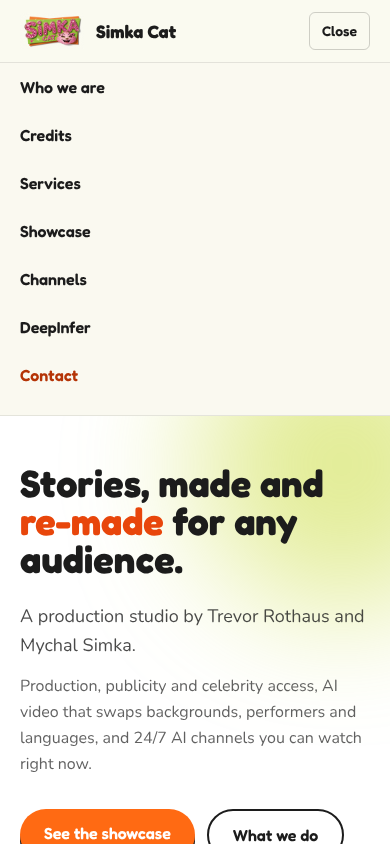
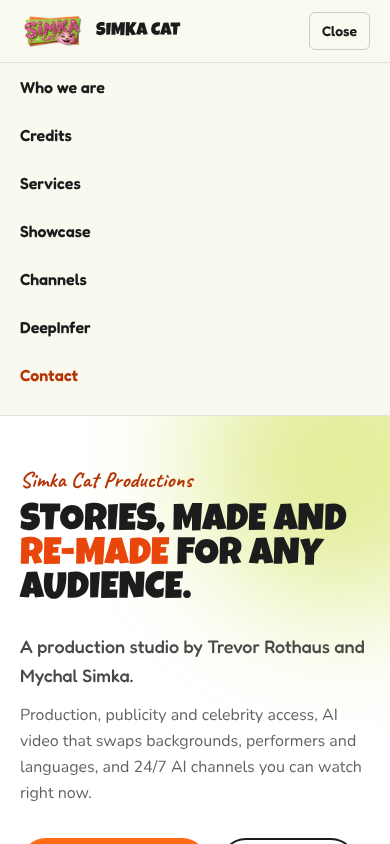
Remove TODO placeholders, refocus Trevor's bio on scale, restore original fonts
Trevor has no film credits, so Credits lists Mychal only and keeps just
the roles verified on TMDB/IMDb. Trevor's bio now centres on scaling
systems at SendGrid (Series C through the Twilio acquisition) and on
running the AI pipeline and channels unattended. Headings use Luckiest
Guy with Caveat accents as on the previous site; Fredoka/Nunito stay
for intros and body. Drops the Todo component and placeholder boxes.

Claude-Session: https://claude.ai/code/session_01CP1hmVNj2LSB4J9c4UqVBf

Changed region(s): [[0.0308, 0.5545, 0.9231, 1.0], [0.6769, 0.7085, 0.9538, 0.8009], [0.2462, 0.0, 0.4615, 0.0616]]

diff --git a/src/data/content.js b/src/data/content.js
@@ -1,6 +1,5 @@
-// Single source of truth for site copy. Anything marked TODO(Trevor) is a
-// placeholder for Trevor to confirm or fill in before the live deploy. Nothing
-// here is invented: every credit carries the public source it was read from.
+// Single source of truth for site copy. Nothing here is invented: every credit
+// carries the public source it was read from.
 
 export const siteMeta = {
   name: 'Simka Cat',
@@ -9,7 +8,6 @@ export const siteMeta = {
   tagline: 'A production studio by Trevor Rothaus and Mychal Simka.',
   description:
     'Simka Cat Productions is the studio of Trevor Rothaus and Mychal Simka: production, publicity and celebrity access, AI video (background and person replacement, translation and lip sync), and always-on AI channels.',
-  // TODO(Trevor): confirm the contact address before launch.
   email: 'hello@simka.cat',
 }
 
@@ -26,11 +24,10 @@ export const founders = [
   {
     name: 'Mychal Simka',
     role: 'Co-founder · Producer, writer, casting director',
-    photo: null, // TODO(Trevor): add a headshot (src/assets/mychal.webp) and import it here.
+    photo: null, // add a headshot (src/assets/mychal.webp) and import it here
     bio: [
       'Mychal has spent more than a decade making animated features: writing, casting, producing and directing English-language versions for international release. The studio carries his name.',
-      // The claim below is copied from the previous simka.cat site; keep it only if Trevor confirms it.
-      'TODO(Trevor): confirm — "twelve animated features for Lionsgate; voice casts including Ariana Grande, Hilary Duff and Smash Mouth" (copied from the previous site).',
+      'He brings the talent relationships, the casting eye and the publicity instincts that get a project noticed.',
     ],
     links: [
       { label: 'IMDb', url: 'https://www.imdb.com/name/nm2949944/' },
@@ -39,11 +36,11 @@ export const founders = [
   },
   {
     name: 'Trevor Rothaus',
-    role: 'Co-founder · Engineer, producer',
-    photo: null, // TODO(Trevor): add a headshot (src/assets/trevor.webp) and import it here.
+    role: 'Co-founder · Engineering and scale',
+    photo: null, // add a headshot (src/assets/trevor.webp) and import it here
     bio: [
-      'Trevor is a software engineer turned producer. He founded and runs Claritas Studios, a nonprofit animation studio, and built its pipeline end to end: story, animation, voice, edit, delivery.',
-      'Before that he was a developer at SendGrid, from Series C through its acquisition by Twilio. He builds the AI tooling and the 24/7 channels behind Simka Cat.',
+      'Trevor builds systems that scale. At SendGrid he was a core developer through the years that took the company from a Series C startup to a multi-billion-dollar public company and its acquisition by Twilio, working on infrastructure that delivered email for tens of thousands of customers.',
+      'He applies the same engineering to media: the AI video pipeline, the inference stack and the three 24/7 channels behind Simka Cat all run unattended, so the studio can take on work at a volume and price a traditional shop cannot.',
     ],
     links: [
       { label: 'Claritas Studios', url: 'https://claritasstudios.com/' },
@@ -52,8 +49,7 @@ export const founders = [
   },
 ]
 
-// Credits. `source` says where the credit was read. Roles starting with TODO
-// were not verified on the source page and need Trevor to confirm or delete.
+// Credits. `source` says where each credit was read.
 export const credits = {
   mychal: [
     { title: 'Elephant Kingdom', year: 2016, role: 'Writer', source: 'TMDB' },
@@ -65,15 +61,6 @@ export const credits = {
     { title: 'Wings', year: 2012, role: 'Voice (Radio Announcer)', source: 'TMDB' },
     { title: 'The Portal', year: 2010, role: 'Editor', source: 'TMDB' },
     { title: 'The Adventures of Bunny Bravo', year: 2022, role: 'Producer', source: 'IMDb' },
-    { title: "The Little Penguin Pororo's Racing Adventure", year: 2013, role: 'TODO(Trevor): role', source: 'IMDb cast & crew listing' },
-    { title: 'Legend of Kung Fu Rabbit', year: 2011, role: 'TODO(Trevor): role', source: 'IMDb cast & crew listing' },
-    { title: 'X-Men Origins: Wolverine', year: 2009, role: 'TODO(Trevor): role', source: 'IMDb "known for"' },
-    { title: 'The Final Destination', year: 2009, role: 'TODO(Trevor): role', source: 'IMDb "known for"' },
-  ],
-  trevor: [
-    { title: 'Claritas Studios animated shorts (prayers, saints, Daisy & Sheep)', year: '2021–', role: 'Founder & CEO, producer', source: 'claritasstudios.com' },
-    { title: 'Saint Joseph animation (Kickstarter)', year: 2025, role: 'Producer', source: 'blog.claritasstudios.com' },
-    { title: 'TODO(Trevor): add further titles', year: '', role: '', source: '' },
   ],
 }
 
@@ -139,7 +126,7 @@ export const showcase = [
     title: 'Demo: Chinese → English lip sync',
     caption: 'A Mandarin scene re-voiced in English with matched lip movement. Sample slot: the real clip is in production.',
     kind: 'video',
-    media: null, // TODO(Trevor): set to '/showcase/zh-en.mp4' once the demo clip is in public/showcase/.
+    media: null, // set to '/showcase/zh-en.mp4' once the demo clip is in public/showcase/
     hue: 'from-red-600 to-orange-900',
     featured: true,
   },
@@ -168,7 +155,7 @@ export const channels = {
 
 export const deepinfer = {
   name: 'DeepInfer',
-  // TODO(Trevor): replace with the 5-line pitch from knowledge-base-lab
+  // Replace with the 5-line pitch from knowledge-base-lab
   // reports/deepinfer-business-model.org once that report is merged.
   pitch: [
     'DeepInfer is the inference business behind Simka Cat: the model hosting and pipelines that run our AI video work and our 24/7 channels.',

diff --git a/src/components/Credits.jsx b/src/components/Credits.jsx
@@ -1,41 +1,5 @@
-import PropTypes from 'prop-types'
 import Section from './Section'
-import Todo from './Todo'
 import { credits } from '../data/content'
-
-function CreditList({ heading, items }) {
-  return (
-    <div>
-      <h3 className="font-fredoka text-2xl font-bold">{heading}</h3>
-      <ul className="mt-4 divide-y divide-ink/10 border-y border-ink/10">
-        {items.map((c, i) => {
-          const todo = c.role.startsWith('TODO') || c.title.startsWith('TODO')
-          return (
-            <li key={`${c.title}-${i}`} className="grid gap-1 py-3 sm:grid-cols-[1fr_auto] sm:items-baseline sm:gap-4">
-              <div>
-                {c.title.startsWith('TODO') ? (
-                  <Todo>{c.title.replace(/^TODO\([^)]*\):\s*/, '')}</Todo>
-                ) : (
-                  <span className="font-semibold">{c.title}</span>
-                )}
-                {c.year !== '' && <span className="ml-2 text-ink/60">{c.year}</span>}
-                <div className="text-sm text-ink/80">
-                  {todo && c.role.startsWith('TODO') ? (
-                    <Todo>{c.role.replace(/^TODO\([^)]*\):\s*/, '')}</Todo>
-                  ) : (
-                    c.role
-                  )}
-                </div>
-              </div>
-              {c.source && <div className="text-xs uppercase tracking-wider text-ink/50">via {c.source}</div>}
-            </li>
-          )
-        })}
-      </ul>
-    </div>
-  )
-}
-CreditList.propTypes = { heading: PropTypes.string.isRequired, items: PropTypes.array.isRequired }
 
 export default function Credits() {
   return (
@@ -44,20 +8,23 @@ export default function Credits() {
       tone="white"
       eyebrow="Credits"
       title="Selected credits"
-      intro="Every title below was read from a public listing (TMDB, IMDb, Claritas Studios); the source is shown beside each credit. Entries marked TODO are listed on those pages but their role still needs confirming."
+      intro="Mychal Simka's film credits, each read from a public listing (TMDB or IMDb); the source is shown beside every title."
     >
-      <div className="grid gap-12 md:grid-cols-2">
-        <CreditList heading="Mychal Simka" items={credits.mychal} />
-        <div className="flex flex-col gap-12">
-          <CreditList heading="Trevor Rothaus" items={credits.trevor} />
-          <div>
-            <h3 className="font-fredoka text-2xl font-bold">Simka Cat</h3>
-            <div className="mt-4">
-              <Todo>joint studio credits (client work, channels) once any are public</Todo>
+      <ul className="divide-y divide-ink/10 border-y border-ink/10 md:columns-2 md:gap-12">
+        {credits.mychal.map((c) => (
+          <li
+            key={c.title}
+            className="grid break-inside-avoid gap-1 py-3 sm:grid-cols-[1fr_auto] sm:items-baseline sm:gap-4"
+          >
+            <div>
+              <span className="font-semibold">{c.title}</span>
+              <span className="ml-2 text-ink/60">{c.year}</span>
+              <div className="text-sm text-ink/80">{c.role}</div>
             </div>
-          </div>
-        </div>
-      </div>
+            <div className="text-xs uppercase tracking-wider text-ink/50">via {c.source}</div>
+          </li>
+        ))}
+      </ul>
     </Section>
   )
 }

diff --git a/src/components/WhoWeAre.jsx b/src/components/WhoWeAre.jsx
@@ -1,8 +1,5 @@
 import Section from './Section'
-import Todo from './Todo'
 import { founders } from '../data/content'
-
-const isTodo = (s) => s.startsWith('TODO')
 
 export default function WhoWeAre() {
   return (
@@ -14,29 +11,19 @@ export default function WhoWeAre() {
       <div className="grid gap-10 md:grid-cols-2 md:gap-12">
         {founders.map((f) => (
           <article key={f.name} className="flex flex-col gap-5">
-            <div className="aspect-[4/5] w-full max-w-[320px] overflow-hidden rounded-2xl border-2 border-ink bg-[repeating-linear-gradient(45deg,#fff_0_16px,#f3f1e4_16px_32px)] shadow-[8px_8px_0_#1c1c1c]">
-              {f.photo ? (
+            {f.photo && (
+              <div className="aspect-[4/5] w-full max-w-[320px] overflow-hidden rounded-2xl border-2 border-ink shadow-[8px_8px_0_#1c1c1c]">
                 <img src={f.photo} alt={f.name} className="h-full w-full object-cover" loading="lazy" />
-              ) : (
-                <div className="flex h-full items-center justify-center p-6 text-center">
-                  <Todo>photo of {f.name}</Todo>
-                </div>
-              )}
-            </div>
+              </div>
+            )}
             <div>
               <h3 className="font-fredoka text-3xl font-bold">{f.name}</h3>
-              <div className="mt-1 text-sm font-semibold uppercase tracking-wider text-[#b53406]">{f.role}</div>
-              {f.bio.map((p) =>
-                isTodo(p) ? (
-                  <div key={p} className="mt-4">
-                    <Todo>{p.replace(/^TODO\([^)]*\):\s*/, '')}</Todo>
-                  </div>
-                ) : (
-                  <p key={p} className="mt-4 leading-relaxed text-ink/80">
-                    {p}
-                  </p>
-                ),
-              )}
+              <div className="mt-1 font-caveat text-[22px] text-[#b53406]">{f.role}</div>
+              {f.bio.map((p) => (
+                <p key={p} className="mt-4 leading-relaxed text-ink/80">
+                  {p}
+                </p>
+              ))}
               <ul className="mt-4 flex flex-wrap gap-3">
                 {f.links.map((l) => (
                   <li key={l.url}>

diff --git a/src/components/Hero.jsx b/src/components/Hero.jsx
@@ -8,10 +8,11 @@ export default function Hero() {
       <div className="pointer-events-none absolute -bottom-32 -left-20 h-72 w-72 rounded-full bg-pink/40 blur-3xl" />
       <div className="relative mx-auto grid max-w-6xl items-center gap-10 md:grid-cols-[1.1fr_0.9fr]">
         <div>
-          <h1 className="font-fredoka text-[clamp(38px,6vw,72px)] font-bold leading-[1] text-ink">
+          <div className="font-caveat text-[clamp(22px,2.6vw,32px)] font-bold text-[#b53406]">Simka Cat Productions</div>
+          <h1 className="mt-2 font-luckiest text-[clamp(38px,6vw,78px)] uppercase leading-[0.9] text-ink">
             Stories, made and <span className="text-[#e8460b]">re-made</span> for any audience.
           </h1>
-          <p className="mt-6 max-w-xl text-lg leading-relaxed text-ink/80 md:text-xl">{siteMeta.tagline}</p>
+          <p className="mt-6 max-w-xl font-fredoka text-lg font-medium leading-relaxed text-ink/80 md:text-xl">{siteMeta.tagline}</p>
           <p className="mt-3 max-w-xl text-base leading-relaxed text-ink/70">
             Production, publicity and celebrity access, AI video that swaps backgrounds, performers and languages,
             and 24/7 AI channels you can watch right now.
@@ -19,7 +20,7 @@ export default function Hero() {
           <div className="mt-8 flex flex-wrap gap-3">
             <a
               href="#showcase"
-              className="rounded-full bg-orange px-6 py-3 font-fredoka font-semibold text-white no-underline shadow-[0_6px_0_#1c1c1c] hover:translate-y-0.5 hover:shadow-[0_4px_0_#1c1c1c]"
+              className="rounded-full bg-orange px-6 py-3 font-luckiest uppercase tracking-wide text-white no-underline shadow-[0_6px_0_#1c1c1c] hover:translate-y-0.5 hover:shadow-[0_4px_0_#1c1c1c]"
             >
               See the showcase
             </a>

diff --git a/src/components/Footer.jsx b/src/components/Footer.jsx
@@ -5,7 +5,7 @@ export default function Footer() {
     <footer className="bg-ink px-5 py-12 text-cream sm:px-8">
       <div className="mx-auto flex max-w-6xl flex-col gap-8 md:flex-row md:items-start md:justify-between">
         <div>
-          <div className="font-fredoka text-2xl font-bold">Simka Cat Productions</div>
+          <div className="font-luckiest text-2xl uppercase">Simka Cat Productions</div>
           <p className="mt-2 max-w-sm text-cream/70">{siteMeta.tagline}</p>
           <a href={`mailto:${siteMeta.email}`} className="mt-3 inline-block font-semibold text-slime no-underline">
             {siteMeta.email}
@@ -21,7 +21,7 @@ export default function Footer() {
           ))}
         </ul>
       </div>
-      <div className="mx-auto mt-10 max-w-6xl border-t border-cream/15 pt-6 text-sm text-cream/50">
+      <div className="mx-auto mt-10 max-w-6xl border-t border-cream/15 pt-6 font-gochi text-base text-cream/60">
         © {new Date().getFullYear()} {siteMeta.legalName}. AI-generated media on this site and our channels is labelled as such.
       </div>
     </footer>

diff --git a/src/components/Section.jsx b/src/components/Section.jsx
@@ -15,10 +15,10 @@ export default function Section({ id, eyebrow, title, intro, tone = 'light', chi
       <div className="mx-auto max-w-6xl">
         <header className="max-w-3xl">
           {eyebrow && (
-            <div className={`font-fredoka text-sm font-semibold uppercase tracking-[0.2em] ${eyebrowTone}`}>{eyebrow}</div>
+            <div className={`font-caveat text-[clamp(22px,2.4vw,30px)] font-bold ${eyebrowTone}`}>{eyebrow}</div>
           )}
-          <h2 className="mt-2 font-fredoka text-[clamp(30px,4.5vw,52px)] font-bold leading-[1.05]">{title}</h2>
-          {intro && <p className={`mt-4 text-lg leading-relaxed ${introTone}`}>{intro}</p>}
+          <h2 className="mt-1 font-luckiest text-[clamp(30px,4.5vw,56px)] uppercase leading-[0.95]">{title}</h2>
+          {intro && <p className={`mt-5 font-fredoka text-[clamp(17px,1.6vw,21px)] font-medium leading-[1.4] ${introTone}`}>{intro}</p>}
         </header>
         <div className="mt-10 md:mt-14">{children}</div>
       </div>

diff --git a/src/components/DeepInfer.jsx b/src/components/DeepInfer.jsx
@@ -1,5 +1,4 @@
 import Section from './Section'
-import Todo from './Todo'
 import { deepinfer, siteMeta } from '../data/content'
 
 export default function DeepInfer() {
@@ -12,9 +11,6 @@ export default function DeepInfer() {
               {p}
             </p>
           ))}
-          <div className="mt-4">
-            <Todo>swap in the 5-line pitch from reports/deepinfer-business-model.org when merged</Todo>
-          </div>
         </div>
         <div className="rounded-2xl border-2 border-ink bg-cream p-6 shadow-[6px_6px_0_#1c1c1c]">
           <div className="font-mono text-[11px] uppercase tracking-wider text-ink/60">Status</div>

diff --git a/src/components/Nav.jsx b/src/components/Nav.jsx
@@ -9,7 +9,7 @@ export default function Nav() {
       <div className="mx-auto flex max-w-6xl items-center justify-between gap-4 px-5 py-3 sm:px-8">
         <a href="#top" className="flex items-center gap-3 no-underline">
           <img src={logo} alt="" width={1424} height={801} className="h-9 w-auto" />
-          <span className="font-fredoka text-lg font-bold text-ink">Simka Cat</span>
+          <span className="font-luckiest text-lg uppercase text-ink">Simka Cat</span>
         </a>
         <ul className="hidden items-center gap-6 md:flex">
           {nav.map((n) => (

diff --git a/src/components/Channels.jsx b/src/components/Channels.jsx
@@ -26,7 +26,7 @@ export default function Channels() {
               </span>
               <span className="font-mono text-[11px] uppercase tracking-wider text-ink/60">live · AI-generated</span>
             </div>
-            <h3 className="mt-3 font-fredoka text-2xl font-bold">{c.name}</h3>
+            <h3 className="mt-3 font-luckiest text-2xl uppercase">{c.name}</h3>
             <p className="mt-2 flex-1 leading-relaxed text-ink/80">{c.desc}</p>
             <span className="mt-4 font-semibold underline group-hover:text-[#b53406]">Watch →</span>
           </a>

diff --git a/src/components/Services.jsx b/src/components/Services.jsx
@@ -17,7 +17,7 @@ export default function Services() {
               i === 1 ? 'bg-slime' : i === 2 ? 'bg-pink/70' : 'bg-white'
             }`}
           >
-            <h3 className="font-fredoka text-xl font-bold">{s.name}</h3>
+            <h3 className="font-luckiest text-xl uppercase leading-tight">{s.name}</h3>
             <p className="mt-3 leading-relaxed text-ink/80">{s.blurb}</p>
           </article>
         ))}

diff --git a/.jmacs/HANDOFF.md b/.jmacs/HANDOFF.md
@@ -11,9 +11,12 @@ PR only; no production deploy until Trevor approves.
 - Credits sourced from TMDB, IMDb search listings, claritasstudios.com; unverified roles marked TODO(Trevor).
 - Screenshots in docs/screenshots/. PR opened: https://github.com/trotha01/simkacat/pull/9
 
+## Done (round 2, per Trevor)
+- All TODO placeholders removed; Trevor has no film credits (Credits is Mychal only, verified roles only);
+  Trevor's bio centres on scale and SendGrid; original site fonts restored (Luckiest Guy, Caveat, Fredoka, Nunito, Gochi).
+
 ## Pending (needs Trevor)
-- Review bios and credits; confirm or delete every TODO(Trevor) in src/data/content.js (headshots, Lionsgate claim,
-  four IMDb roles, contact email, further Trevor titles).
+- Final read of bios/credits; add headshots if wanted (founders[].photo).
 - Supply real showcase clips (public/showcase/, set `media`), esp. the Chinese→English lip-sync demo.
 - Swap in the DeepInfer 5-line pitch once reports/deepinfer-business-model.org is merged in knowledge-base-lab.
 - Approve merge + live deploy. Preview URL: Netlify deploy preview should appear on the PR if enabled (site name

diff --git a/README.md b/README.md
@@ -2,7 +2,7 @@
 
 Studio site for Simka Cat Productions (Trevor Rothaus and Mychal Simka), built with React, Vite, and Tailwind CSS.
 
-All copy lives in `src/data/content.js`. Items marked `TODO(Trevor)` render as visible placeholders (the `Todo` component) until filled in; real showcase clips go in `public/showcase/` and are referenced from the `showcase` list.
+All copy lives in `src/data/content.js`. Real showcase clips go in `public/showcase/` and are referenced from the `showcase` list.
 
 ## Development
 
